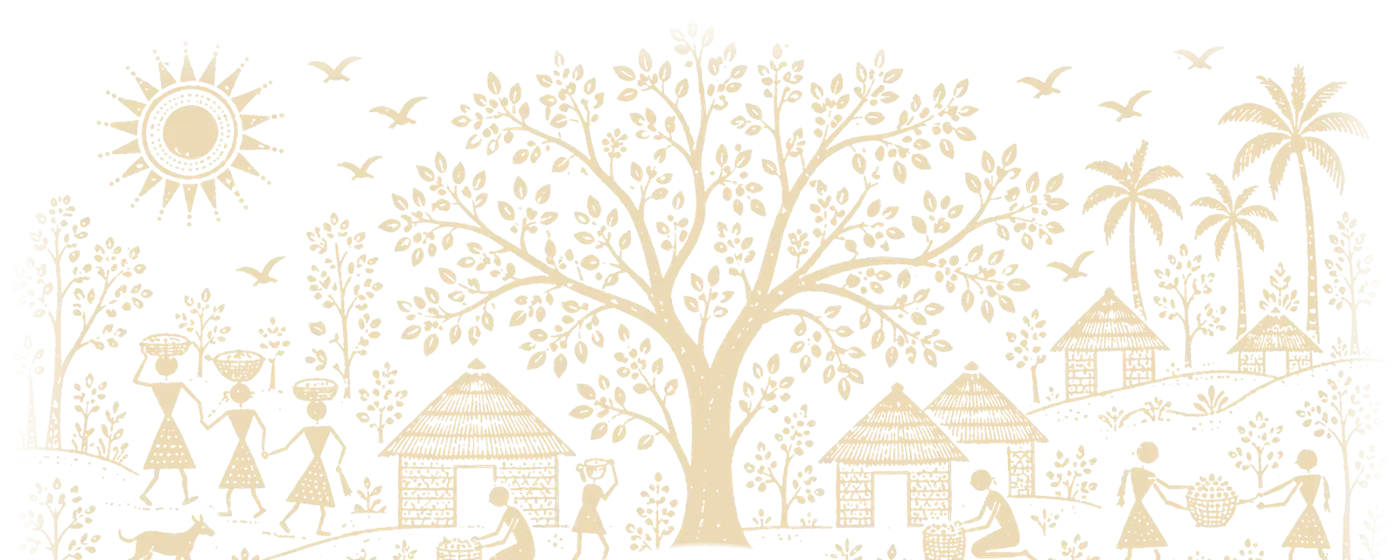
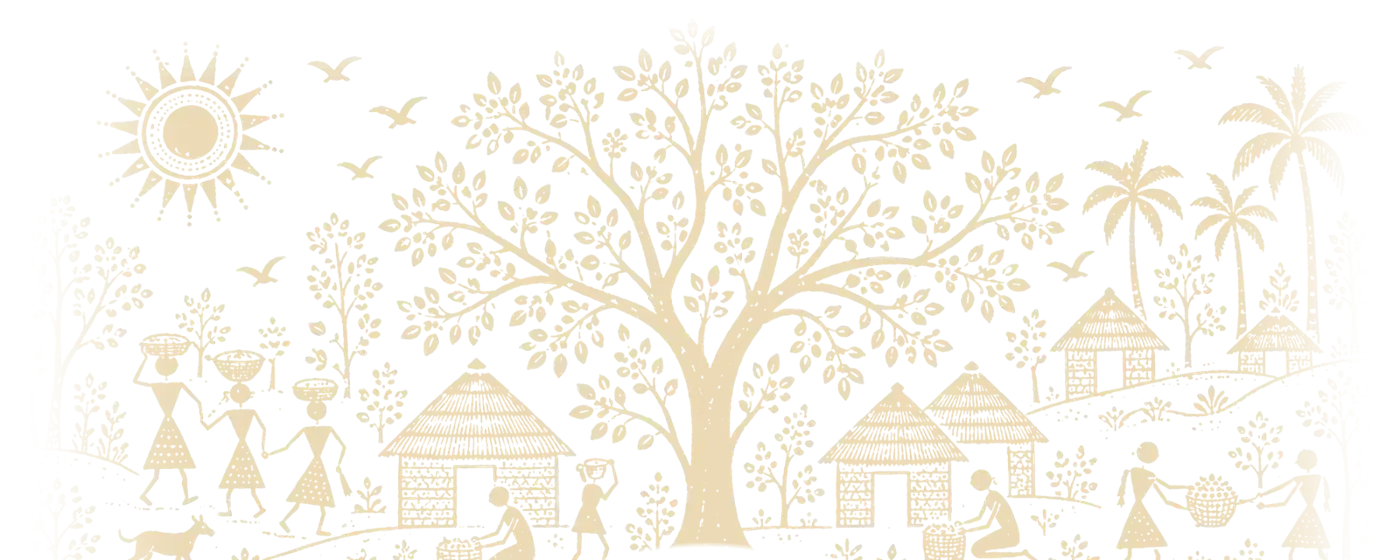
Keep the closing its own size, with the whole painting inside it
The closing goes back to its original height. The painting is fitted whole inside it, standing on the footer strip, and its own sides fade into the brown so it shows no edge.

Changed region(s): [[0.8907, 0.1214, 0.9829, 1.0], [0.0307, 0.3339, 0.0921, 0.8196], [0.0307, 0.85, 0.0614, 1.0]]

diff --git a/apps/mobile/website/flow.css b/apps/mobile/website/flow.css
@@ -666,31 +666,20 @@ h2[data-lines][data-arrived] .line > span {
 }
 
 /* the top band of the mural, the whole tree with the sun, the huts and the people under it, stands at the foot of
-   the closing on the footer's strip, across the full width of the screen, and grows a little from its ground as the
-   band comes on. */
+   the closing on the footer's strip, whole and inside the band's own height, and grows a little from its ground as
+   the band comes on. */
 .bookend-tree {
   position: absolute;
   z-index: -1;
-  left: 0;
-  bottom: 0;
+  inset: 24px 0 0;
   width: 100%;
-  height: auto;
+  height: calc(100% - 24px);
+  object-fit: contain;
+  object-position: 50% 100%;
   opacity: 0.1;
   pointer-events: none;
-  -webkit-mask: linear-gradient(to right, transparent, #000 5%, #000 95%, transparent);
-  mask: linear-gradient(to right, transparent, #000 5%, #000 95%, transparent);
   transform-origin: 50% 100%;
   transform: scale(calc(0.97 + var(--p) * 0.03));
-}
-/* tall enough for the whole painting at the full width of the screen (it is 2.5 times as wide as it is tall) */
-.closing-section:has(.bookend-tree) {
-  min-height: min(calc(40vw + 48px), 980px);
-  display: flex;
-  align-items: center;
-}
-.closing-section:has(.bookend-tree) > .closing-inner {
-  width: min(1320px, calc(100% - 48px));
-  margin-inline: auto;
 }
 
 /* 06 and 07 look at another corner of the same mural: zoomed in on its lower right, the palms, the planted rows and
